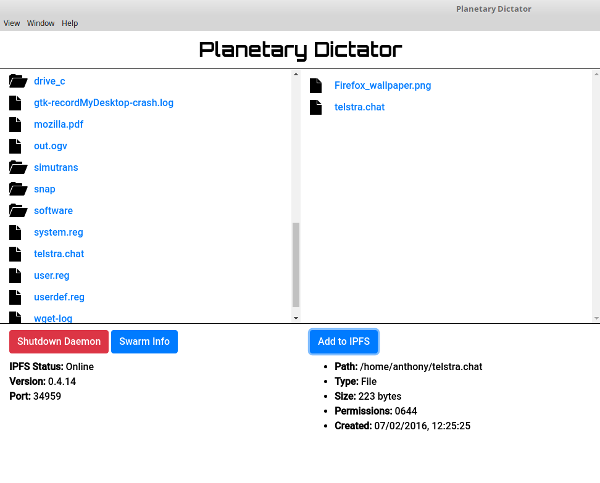
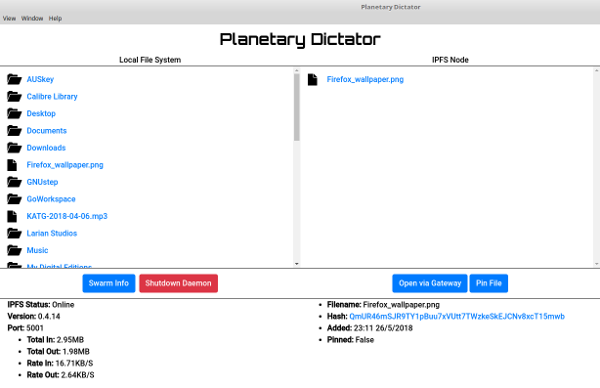
Added bandwidth statistics to the main application interface

diff --git a/js/app.js b/js/app.js
@@ -15,11 +15,13 @@ const userHome = require('user-home');
 
 const Store = require('electron-store');
 const appStorage = new Store();
+const formatBytes = require('bytes');
+
 appStorage.set('ipfsFiles', false);
 
 const dir = require('node-dir');
-
 const ipfsAPI = require('ipfs-api');
+
 ipfsLib = {};
 
 
@@ -38,6 +40,30 @@ var planetaryDictator = {
               "<strong>Version:</strong> " + remote.getGlobal('ipfsDetails').version + "<br />" +
               "<strong>Port:</strong> " + remote.getGlobal('ipfsDetails').port + "<br />"            
             );
+
+            var updateNode = function() {
+                ipfsLib.stats.bw((err, stats) => {
+                    jQuery("#ipfs-stats").html('');
+
+                    jQuery("#ipfs-stats").html(
+                        "<ul>" +
+                        "<li><strong>Total In:</strong> " + formatBytes( Number(stats.totalIn.toFixed(2)) ) + "</li>" +
+                        "<li><strong>Total Out:</strong> " + formatBytes( Number(stats.totalOut.toFixed(2)) ) + "</li>" +
+                        "<li><strong>Rate In:</strong> " + formatBytes( Number(stats.rateIn.toFixed(2)) ) + "/S</li>" +
+                        "<li><strong>Rate Out:</strong> " + formatBytes( Number(stats.rateOut.toFixed(2)) ) + "/S</li>" +
+                        "</ul>"  
+                    );
+
+                    
+                    var totalIn = Number(stats.totalIn.toFixed(2));
+                    var totalOut = Number(stats.totalOut.toFixed(2));
+                    var rateIn = Number(stats.rateIn.toFixed(2));
+                    var rateOut = Number(stats.rateOut.toFixed(2));                    
+                    
+                });
+            }
+
+            setInterval(updateNode, 1000);
 
             setTimeout(function() {
               jQuery('#notification-modal').hide();

diff --git a/templates/index.html b/templates/index.html
@@ -19,7 +19,7 @@
         jQuery('.close-modal').hide();
         getQuote();
         jQuery('#notification-modal').show();
-        
+
         planetaryDictator.checkNode();
         planetaryDictator.bindClicks();
       }, 500);
@@ -60,8 +60,14 @@
     </div>  
 
     <div class="row">
-      <div class="col" id="ipfs-status">
-        <strong>IPFS Status:</strong> Offline
+      <div class="col">
+        <!-- Show the status, version and port of the IPFS node -->
+        <div id="ipfs-status">
+          <strong>IPFS Status:</strong> Offline
+        </div>
+
+        <!-- Show bandwidth stats etc for the IPFS node -->
+        <div id="ipfs-stats"></div>
       </div>
 
       <div class="col" id="action-panel">       
